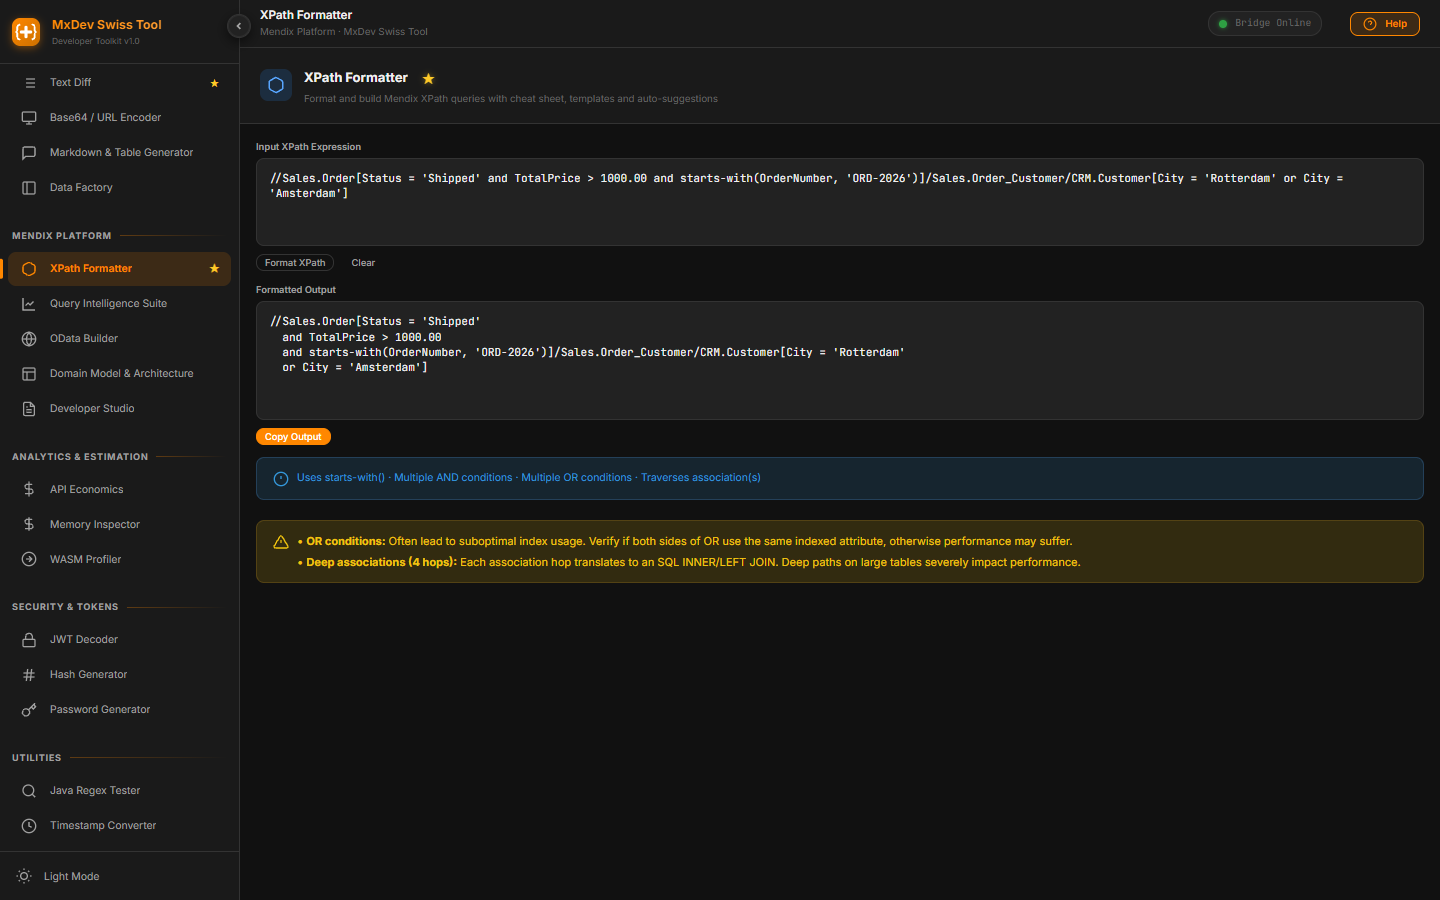
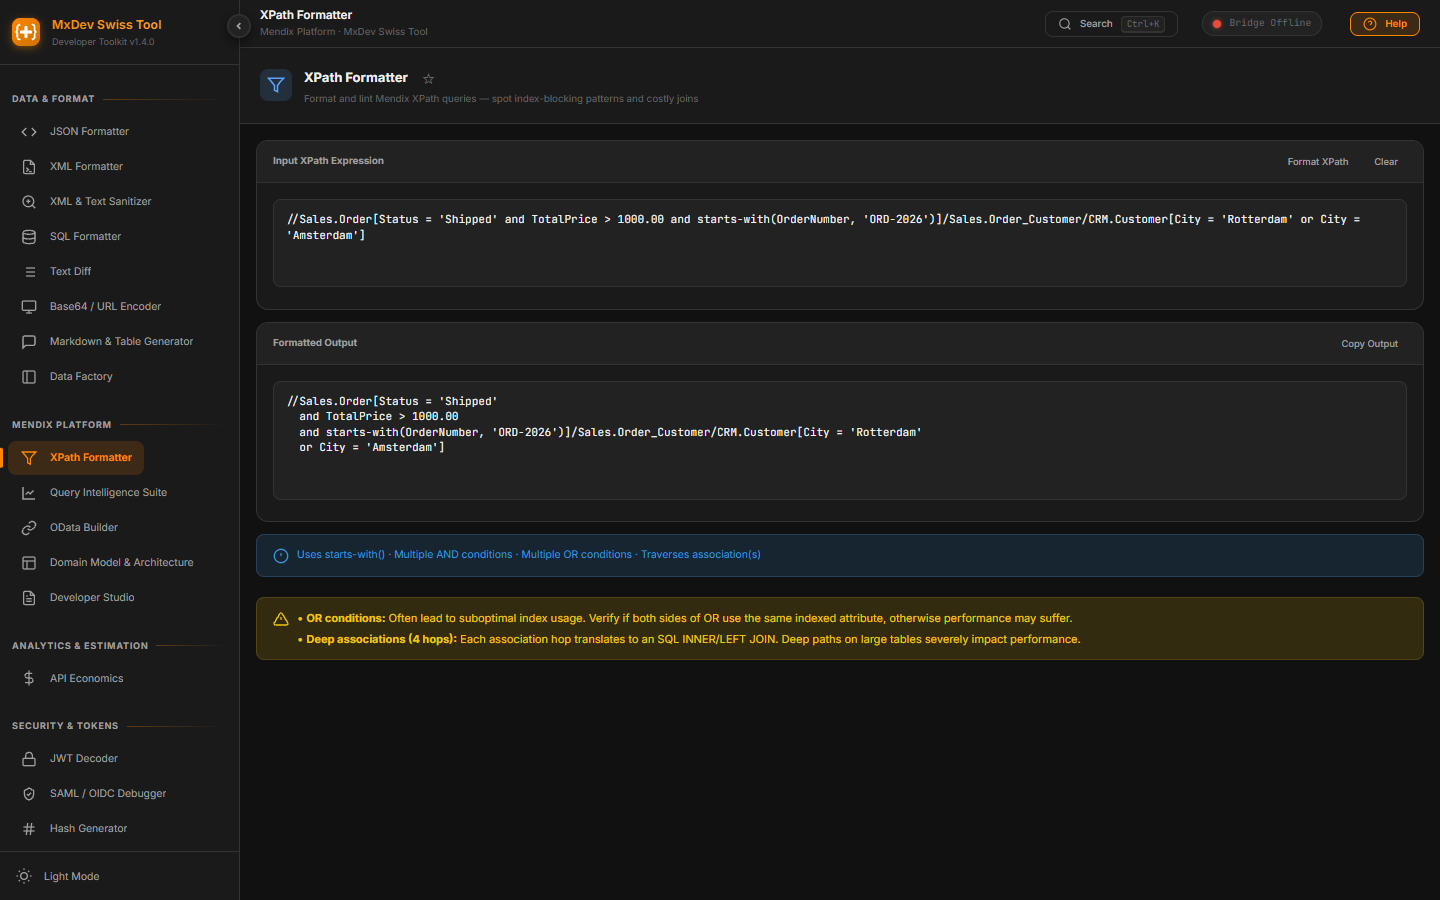
feat(xpath): reprofile XPath Formatter as a linter, drop cheat sheet
Remove the XPath Cheat Sheet panel and its click-to-copy wiring. The tool
now focuses on formatting and linting queries, flagging index-blocking
patterns instead of doubling as a token reference.

Bumps the app to v1.4.0 (package.json, service worker cache, UI version
strings via the sync scripts).

diff --git a/public/index.html b/public/index.html
@@ -87,7 +87,7 @@
         <line x1="7" y1="12" x2="17" y2="12" stroke-width="3.5"></line>
       </svg>
     </div>
-    <div><div class="logo-text">MxDev Swiss Tool</div><div class="logo-sub">Developer Toolkit v1.3.0</div></div>
+    <div><div class="logo-text">MxDev Swiss Tool</div><div class="logo-sub">Developer Toolkit v1.4.0</div></div>
   </div>
   <div id="sidebar-nav">
     <button type="button" class="nav-item active" data-tool="home" onclick="navigate('home',this)">
@@ -241,7 +241,7 @@
 <!-- MAIN -->
 <main id="main">
   <div id="topbar">
-    <div><div id="topbar-title">Home</div><div id="topbar-subtitle">MxDev Swiss Tool v1.3.0</div></div>
+    <div><div id="topbar-title">Home</div><div id="topbar-subtitle">MxDev Swiss Tool v1.4.0</div></div>
     <div id="topbar-spacer"></div>
     <button class="topbar-btn" id="topbar-search-btn" onclick="if(window.openCommandPalette)window.openCommandPalette()" title="Search tools (Ctrl+K)" style="margin-right:12px">
       <svg viewBox="0 0 24 24" fill="none" stroke="currentColor" stroke-width="2"><circle cx="11" cy="11" r="8"/><line x1="21" y1="21" x2="16.65" y2="16.65"/></svg>
@@ -784,7 +784,7 @@
     <div class="tool-panel" id="panel-xpath-builder">
       <div class="tool-header">
         <div class="tool-header-icon" style="background:color-mix(in srgb, #58a6ff 15%, transparent)"><svg viewBox="0 0 24 24" fill="none" stroke="#58a6ff" stroke-width="2"><polygon points="22 3 2 3 10 12.46 10 19 14 21 14 12.46 22 3"/></svg></div>
-        <div class="tool-header-info"><div class="tool-header-title">XPath Formatter</div><div class="tool-header-desc">Format and lint Mendix XPath queries &mdash; with system-token cheat sheet and templates</div></div>
+        <div class="tool-header-info"><div class="tool-header-title">XPath Formatter</div><div class="tool-header-desc">Format and lint Mendix XPath queries &mdash; spot index-blocking patterns and costly joins</div></div>
       </div>
       <div class="xpath-editor">
         <div class="card">
@@ -814,50 +814,6 @@
           <svg viewBox="0 0 24 24" fill="none" stroke="currentColor" stroke-width="2" style="flex-shrink:0"><path d="M10.29 3.86L1.82 18a2 2 0 0 0 1.71 3h16.94a2 2 0 0 0 1.71-3L13.71 3.86a2 2 0 0 0-3.42 0z"/><line x1="12" y1="9" x2="12" y2="13"/><line x1="12" y1="17" x2="12.01" y2="17"/></svg>
           <div id="xpath-linter-text" style="display:flex;flex-direction:column;gap:4px"></div>
         </div>
-
-        <!-- XPATH CHEAT SHEET -->
-        <div class="card" id="xpath-cheatsheet" style="margin-top:var(--sp-3)">
-          <div class="card-header">
-            <h4 style="flex:1;margin:0;font-size:0.75rem;color:var(--text-secondary)">XPath Cheat Sheet &mdash; click any snippet to copy</h4>
-          </div>
-          <div class="card-body" style="display:flex;flex-direction:column;gap:var(--sp-4)">
-            <div>
-              <div style="font-size:0.72rem;font-weight:700;text-transform:uppercase;color:var(--text-muted);margin-bottom:var(--sp-2)">System Variables</div>
-              <div class="xcs-grid">
-                <button type="button" class="xcs-item" data-snippet="[%CurrentUser%]"><code>[%CurrentUser%]</code><span>Logged-in user object</span></button>
-                <button type="button" class="xcs-item" data-snippet="[%CurrentObject%]"><code>[%CurrentObject%]</code><span>Object in current context</span></button>
-                <button type="button" class="xcs-item" data-snippet="[%CurrentDateTime%]"><code>[%CurrentDateTime%]</code><span>Current date and time</span></button>
-                <button type="button" class="xcs-item" data-snippet="[%BeginOfCurrentDay%]"><code>[%BeginOfCurrentDay%]</code><span>Today 00:00:00</span></button>
-                <button type="button" class="xcs-item" data-snippet="[%EndOfCurrentDay%]"><code>[%EndOfCurrentDay%]</code><span>Today 23:59:59</span></button>
-                <button type="button" class="xcs-item" data-snippet="[%BeginOfCurrentWeek%]"><code>[%BeginOfCurrentWeek%]</code><span>Start of this week</span></button>
-                <button type="button" class="xcs-item" data-snippet="[%BeginOfCurrentMonth%]"><code>[%BeginOfCurrentMonth%]</code><span>Start of this month</span></button>
-                <button type="button" class="xcs-item" data-snippet="[%DayLength%]"><code>[%DayLength%]</code><span>Milliseconds in a day (for date math)</span></button>
-                <button type="button" class="xcs-item" data-snippet="[%UserRole_Administrator%]"><code>[%UserRole_Administrator%]</code><span>User role token (per role name)</span></button>
-              </div>
-            </div>
-            <div>
-              <div style="font-size:0.72rem;font-weight:700;text-transform:uppercase;color:var(--text-muted);margin-bottom:var(--sp-2)">Functions &amp; Operators</div>
-              <div class="xcs-grid">
-                <button type="button" class="xcs-item" data-snippet="starts-with(Name, 'A')"><code>starts-with(Attr, 'x')</code><span>Prefix match (index-friendly)</span></button>
-                <button type="button" class="xcs-item" data-snippet="contains(Name, 'test')"><code>contains(Attr, 'x')</code><span>Substring match (&#9888; table scan)</span></button>
-                <button type="button" class="xcs-item" data-snippet="not(Status = 'Done')"><code>not(...)</code><span>Negation (&#9888; may skip indexes)</span></button>
-                <button type="button" class="xcs-item" data-snippet="[Attr = empty]"><code>[Attr = empty]</code><span>NULL check (also != empty)</span></button>
-                <button type="button" class="xcs-item" data-snippet="[reversed(Module.Order_Customer)/Module.Order/Total > 100]"><code>reversed(...)</code><span>Traverse association backwards</span></button>
-                <button type="button" class="xcs-item" data-snippet="[Module.Order_Customer/Module.Customer/Name = 'Acme']"><code>Path/Entity/Attr</code><span>Association traversal (= SQL JOIN)</span></button>
-              </div>
-            </div>
-            <div>
-              <div style="font-size:0.72rem;font-weight:700;text-transform:uppercase;color:var(--text-muted);margin-bottom:var(--sp-2)">Ready Templates</div>
-              <div class="xcs-grid">
-                <button type="button" class="xcs-item" data-snippet="[System.owner = '[%CurrentUser%]']"><code>Owned by me</code><span>[System.owner = '[%CurrentUser%]']</span></button>
-                <button type="button" class="xcs-item" data-snippet="[CreatedDate >= [%BeginOfCurrentDay%] - 7 * [%DayLength%]]"><code>Last 7 days</code><span>[CreatedDate &gt;= [%BeginOfCurrentDay%] - 7 * [%DayLength%]]</span></button>
-                <button type="button" class="xcs-item" data-snippet="[CreatedDate >= [%BeginOfCurrentMonth%]]"><code>This month</code><span>[CreatedDate &gt;= [%BeginOfCurrentMonth%]]</span></button>
-                <button type="button" class="xcs-item" data-snippet="[Status = 'Active' and Priority = 'High']"><code>AND filter</code><span>[Status = 'Active' and Priority = 'High']</span></button>
-              </div>
-            </div>
-          </div>
-        </div>
-
       </div>
     </div>
 

diff --git a/public/styles/main.css b/public/styles/main.css
@@ -1017,38 +1017,6 @@ kbd {
   box-shadow: 0 0 0 1px var(--danger) inset;
   background: var(--danger-subtle);
 }
-.xcs-grid {
-  display: grid;
-  grid-template-columns: repeat(auto-fill, minmax(220px, 1fr));
-  gap: var(--sp-2);
-}
-.xcs-item {
-  font: inherit;
-  text-align: left;
-  display: flex;
-  flex-direction: column;
-  gap: 2px;
-  padding: var(--sp-2) var(--sp-3);
-  background: var(--bg-elevated);
-  border: 1px solid var(--border);
-  border-radius: var(--r-md);
-  cursor: pointer;
-  color: var(--text-secondary);
-  transition: border-color var(--t-fast), background var(--t-fast);
-}
-.xcs-item:hover {
-  border-color: var(--accent);
-  background: var(--bg-hover);
-}
-.xcs-item code {
-  color: var(--accent);
-  font-size: 0.78rem;
-  word-break: break-all;
-}
-.xcs-item span {
-  font-size: 0.72rem;
-  color: var(--text-muted);
-}
 .log-level-filters {
   gap: var(--sp-1);
   flex-wrap: wrap;

diff --git a/public/js/tools/xpath.js b/public/js/tools/xpath.js
@@ -1,26 +1,5 @@
 // XPATH BUILDER
 // ============================================================
-let xpathCheatsheetWired = false;
-function initXpath() {
-  // Cheat sheet: click any snippet to copy it (single delegated listener)
-  const sheet = document.getElementById('xpath-cheatsheet');
-  if (!sheet || xpathCheatsheetWired) return;
-  xpathCheatsheetWired = true;
-  sheet.addEventListener('click', (e) => {
-    const item = e.target.closest('.xcs-item');
-    if (!item) return;
-    const snippet = item.getAttribute('data-snippet');
-    if (!snippet) return;
-    window.copyToClipboard(snippet);
-    const codeEl = item.querySelector('code');
-    if (codeEl && !item.dataset.flashing) {
-      item.dataset.flashing = '1';
-      const original = codeEl.textContent;
-      codeEl.textContent = '✓ Copied';
-      setTimeout(() => { codeEl.textContent = original; delete item.dataset.flashing; }, 900);
-    }
-  });
-}
 function xpathAnalyze() {
   const val = document.getElementById('xpath-input').value.trim();
   const res = document.getElementById('xpath-result');
@@ -78,7 +57,4 @@ function xpathAnalyze() {
 
 
 // --- AUTO-GENERATED ESM EXPORTS ---
-window.initXpath = initXpath;
 window.xpathAnalyze = xpathAnalyze;
-
-export function init() { initXpath(); }

diff --git a/public/js/core.js b/public/js/core.js
@@ -42,7 +42,7 @@ const TOOLS = [
   {id:'text-diff',     label:'Text Diff',                  desc:'Compare two text blocks with highlighted differences',                           color:'var(--success)',  icon:'<svg viewBox="0 0 24 24" fill="none" stroke="currentColor" stroke-width="2"><line x1="8" y1="6" x2="21" y2="6"/><line x1="8" y1="12" x2="21" y2="12"/><line x1="8" y1="18" x2="21" y2="18"/><line x1="3" y1="6" x2="3.01" y2="6"/><line x1="3" y1="12" x2="3.01" y2="12"/><line x1="3" y1="18" x2="3.01" y2="18"/></svg>',        section:'Data & Format'},
   {id:'encoder',       label:'Base64 / URL Encoder',       desc:'Encode and decode Base64, URL, and HTML entities',                              color:'#2ecc71',         icon:'<svg viewBox="0 0 24 24" fill="none" stroke="currentColor" stroke-width="2"><rect x="2" y="3" width="20" height="14" rx="2"/><line x1="8" y1="21" x2="16" y2="21"/><line x1="12" y1="17" x2="12" y2="21"/></svg>',        section:'Data & Format'},
   {id:'md-preview',    label:'Markdown & Table Generator', desc:'Write and preview Markdown documentation and generate markdown tables',          color:'#95a5a6',            icon:'<svg viewBox="0 0 24 24" fill="none" stroke="currentColor" stroke-width="2"><path d="M21 15a2 2 0 0 1-2 2H7l-4 4V5a2 2 0 0 1 2-2h14a2 2 0 0 1 2 2z"/></svg>',            section:'Data & Format'},
-  {id:'xpath-builder', label:'XPath Formatter',  desc:'Format and lint XPath queries with cheat sheet and templates',                  color:'var(--accent)',   icon:'<svg viewBox="0 0 24 24" fill="none" stroke="currentColor" stroke-width="2"><polygon points="22 3 2 3 10 12.46 10 19 14 21 14 12.46 22 3"/></svg>',        section:'Mendix Platform'},
+  {id:'xpath-builder', label:'XPath Formatter',  desc:'Format and lint XPath queries, flagging index-blocking patterns',                color:'var(--accent)',   icon:'<svg viewBox="0 0 24 24" fill="none" stroke="currentColor" stroke-width="2"><polygon points="22 3 2 3 10 12.46 10 19 14 21 14 12.46 22 3"/></svg>',        section:'Mendix Platform'},
   {id:'query-intelligence', label:'Query Intelligence Suite', desc:'Consolidated OQL/SQL Analyzer, Visualizer, Index Advisor & N+1 Detector',        color:'#3498db',         icon:'<svg viewBox="0 0 24 24" fill="none" stroke="currentColor" stroke-width="2"><path d="M3 3v18h18"/><path d="M18.7 8l-5.1 5.2-2.8-2.7L7 14.3"/></svg>', section:'Mendix Platform'},
   {id:'odata-builder', label:'OData Builder',              desc:'Build OData queries for Published OData Services',                              color:'#2ecc71',         icon:'<svg viewBox="0 0 24 24" fill="none" stroke="currentColor" stroke-width="2"><path d="M10 13a5 5 0 0 0 7.54.54l3-3a5 5 0 0 0-7.07-7.07l-1.72 1.71"/><path d="M14 11a5 5 0 0 0-7.54-.54l-3 3a5 5 0 0 0 7.07 7.07l1.71-1.71"/></svg>',        section:'Mendix Platform'},
 
@@ -167,7 +167,7 @@ async function navigate(toolId, navEl) {
   else { const el = document.querySelector('.nav-item[data-tool="'+toolId+'"]'); if (el) { el.classList.add('active'); el.setAttribute('aria-current', 'page'); } }
   const tool = TOOLS.find(t => t.id === toolId) || {label: toolId, section: ''};
   document.getElementById('topbar-title').textContent = tool.label;
-  document.getElementById('topbar-subtitle').textContent = tool.section ? tool.section + ' \u00B7 MxDev Swiss Tool' : 'MxDev Swiss Tool v1.3.0';
+  document.getElementById('topbar-subtitle').textContent = tool.section ? tool.section + ' \u00B7 MxDev Swiss Tool' : 'MxDev Swiss Tool v1.4.0';
   const previousTool = currentTool;
   currentTool = toolId;
   window.currentTool = currentTool;

diff --git a/public/js/tools-help.js b/public/js/tools-help.js
@@ -402,13 +402,13 @@ const TOOLS_HELP = {
   },
   'xpath-builder': {
     title: 'XPath Formatter',
-    description: 'Tool assisting in writing, formatting, and validating XPath queries in the Mendix standard. Includes a handy cheat sheet with the most popular system tokens (e.g., current user, date operations) and query templates.',
+    description: 'Tool assisting in writing, formatting, and validating XPath queries in the Mendix standard. Formats complex constraints into a readable tree and flags patterns that hurt database performance.',
     howToGet: 'Get the XPath query directly from the properties of a <em>Retrieve</em> action from the database in Mendix Studio Pro or from entity Access Rules.',
     howToUse: `
       <ol>
         <li>Paste your XPath query into the editor window.</li>
         <li>Click <strong>Format</strong>. A complex, multi-line query with multiple logical operators will be formatted into a readable indentation tree.</li>
-        <li>Use the <strong>XPath Cheat Sheet</strong> section at the bottom of the screen to quickly copy special Mendix platform variables like <code>[%CurrentUser%]</code> or <code>[reversed()]</code> operators for associations.</li>
+        <li>Review the analysis and linter notices below the editor &mdash; they point out index-blocking functions, negations, and deep association hops before they reach production.</li>
       </ol>
     `,
     interpretation: `

diff --git a/public/service-worker.js b/public/service-worker.js
@@ -1,4 +1,4 @@
-const CACHE_NAME = 'mxdev-swiss-tool-v1.3.0';
+const CACHE_NAME = 'mxdev-swiss-tool-v1.4.0';
 
 self.addEventListener('install', (event) => {
   event.waitUntil(

diff --git a/README.md b/README.md
@@ -37,7 +37,7 @@ The toolkit is divided into logical categories to assist you across the entire d
 * **Markdown Editor & Table Generator**: Write module documentation with a live HTML preview — drop a `.md` file straight onto the editor to load it. The table generator turns a range pasted from Excel, Google Sheets, or a CSV into a ready Markdown table, with per-column alignment and no hand-typed pipes.
 
 ### 4. Mendix Platform Utilities
-* **OData / XPath Query Builders**: Sandboxes to build and test queries with cheat sheets.
+* **OData / XPath Query Builders**: Sandboxes to build, format, and lint queries before they hit the database.
   ![XPath Builder](assets/screenshot-xpath-builder.png)
 * **Domain Model & Architecture Visualizer**: Generate Mermaid.js class diagrams from Domain Model JSON schemas or pseudocode.
 * **OQL / XPath Formatters**: Format and structure database and retrieve constraints.